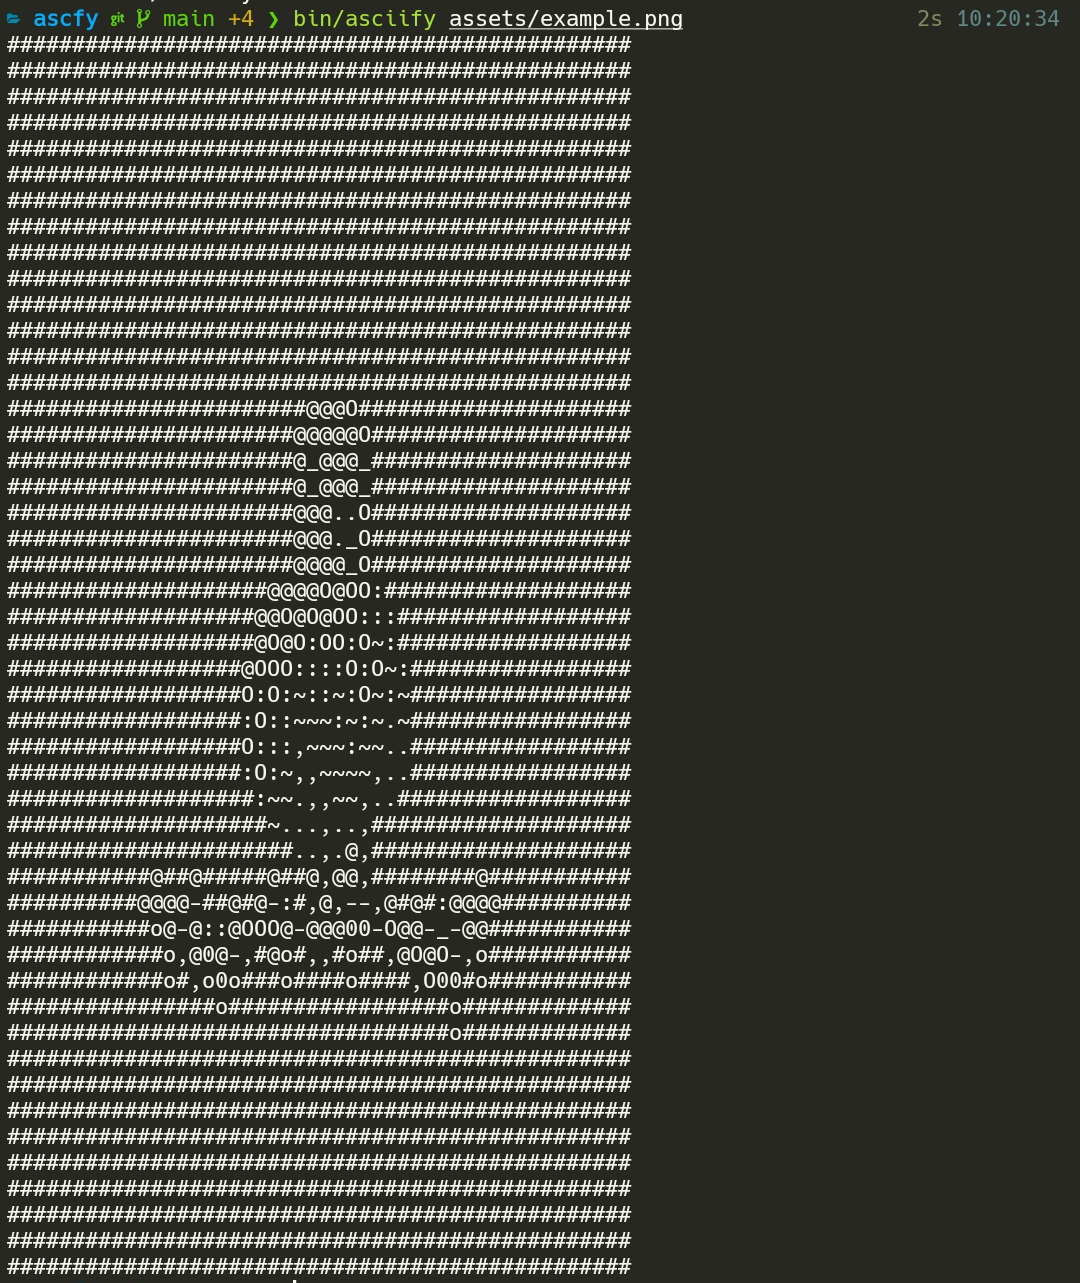
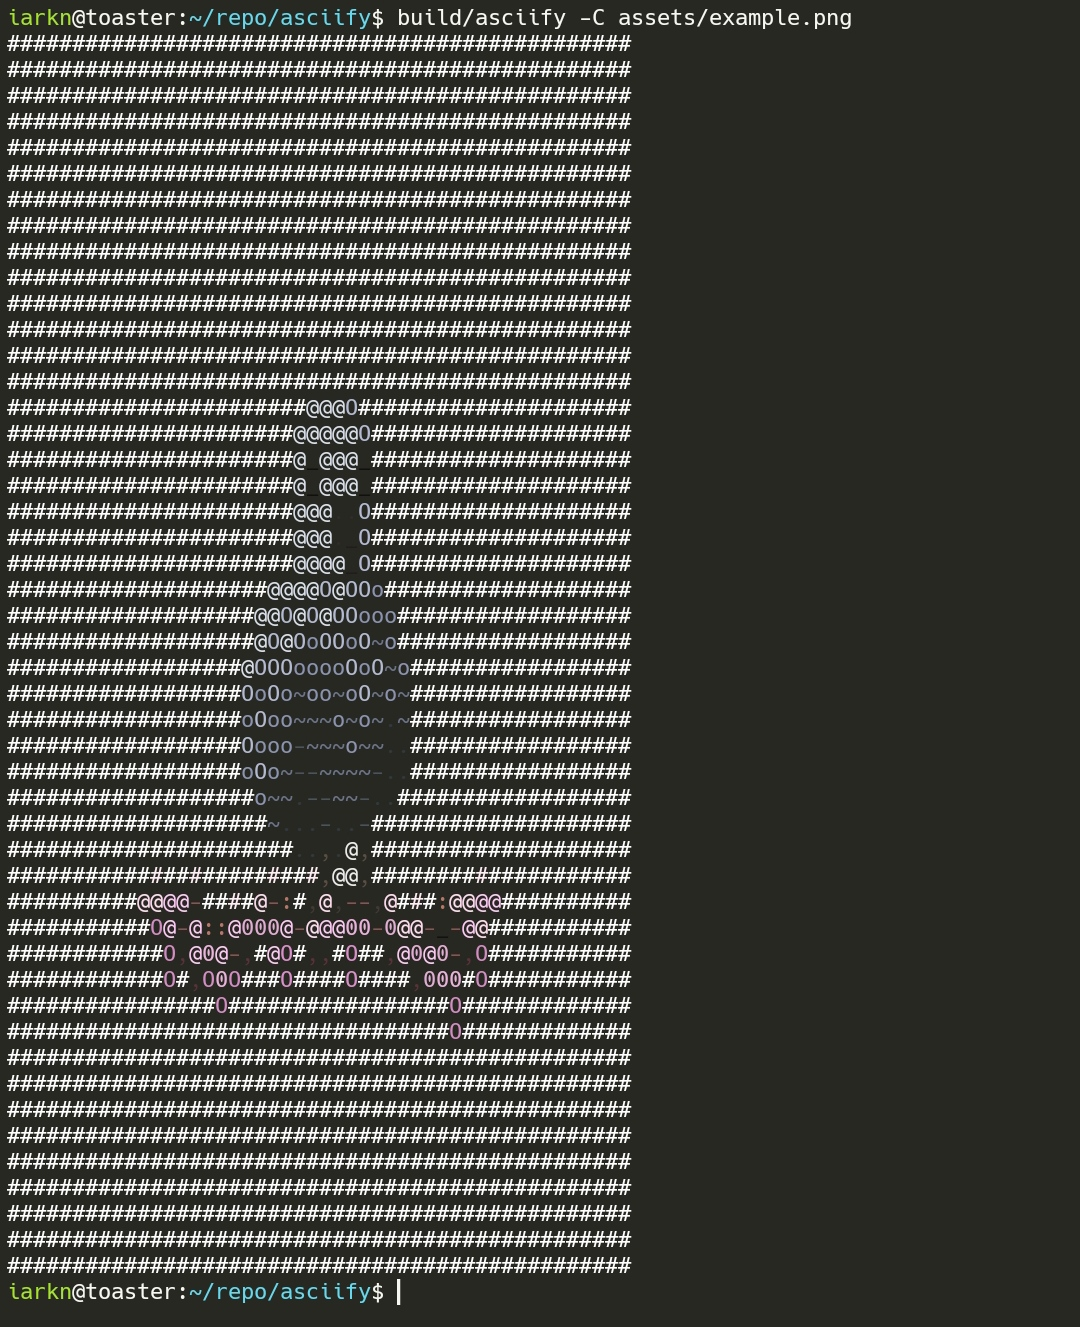
Update README.md

diff --git a/README.md b/README.md
@@ -5,23 +5,28 @@ An attempt at making a program that converts images to ASCII characters.
 ## Usage
 
 ```
-Usage: bin/asciify [options ...] file
-      --help            show this information
-  -v, --verbose         be verbose
+Usage: build/asciify [options ...] file
+  -h, --help            show this information
   -c, --chars <string>  set output characters from dark to light
   -s, --scale <float>   set scaling of the image and text output
+  -C, --colorize        colorize text output, uses true color (24-bit color)
 ```
 
 ## Example
 
-Below is the result of converting [this](assets/example.png) image into an ASCII-art.
+Below is the result of converting [this](assets/example.png) image into a colored ASCII art.
 
 ![example-output](assets/example-output.jpg)
 
 ## Building
 
-You would need a compiler for C (like `clang` or `gcc`) and `make`. To compile, just type `make` in the root directory and the build output should be in the `bin/` directory.
+### Prerequisites
+
+* GNU Make
+* GCC (or any C compiler that works)
+
+Type `make` in the root directory and the executable file should be in the `build/` directory.
 
 ## License
 
-[MIT](LICENSE)
+MIT
